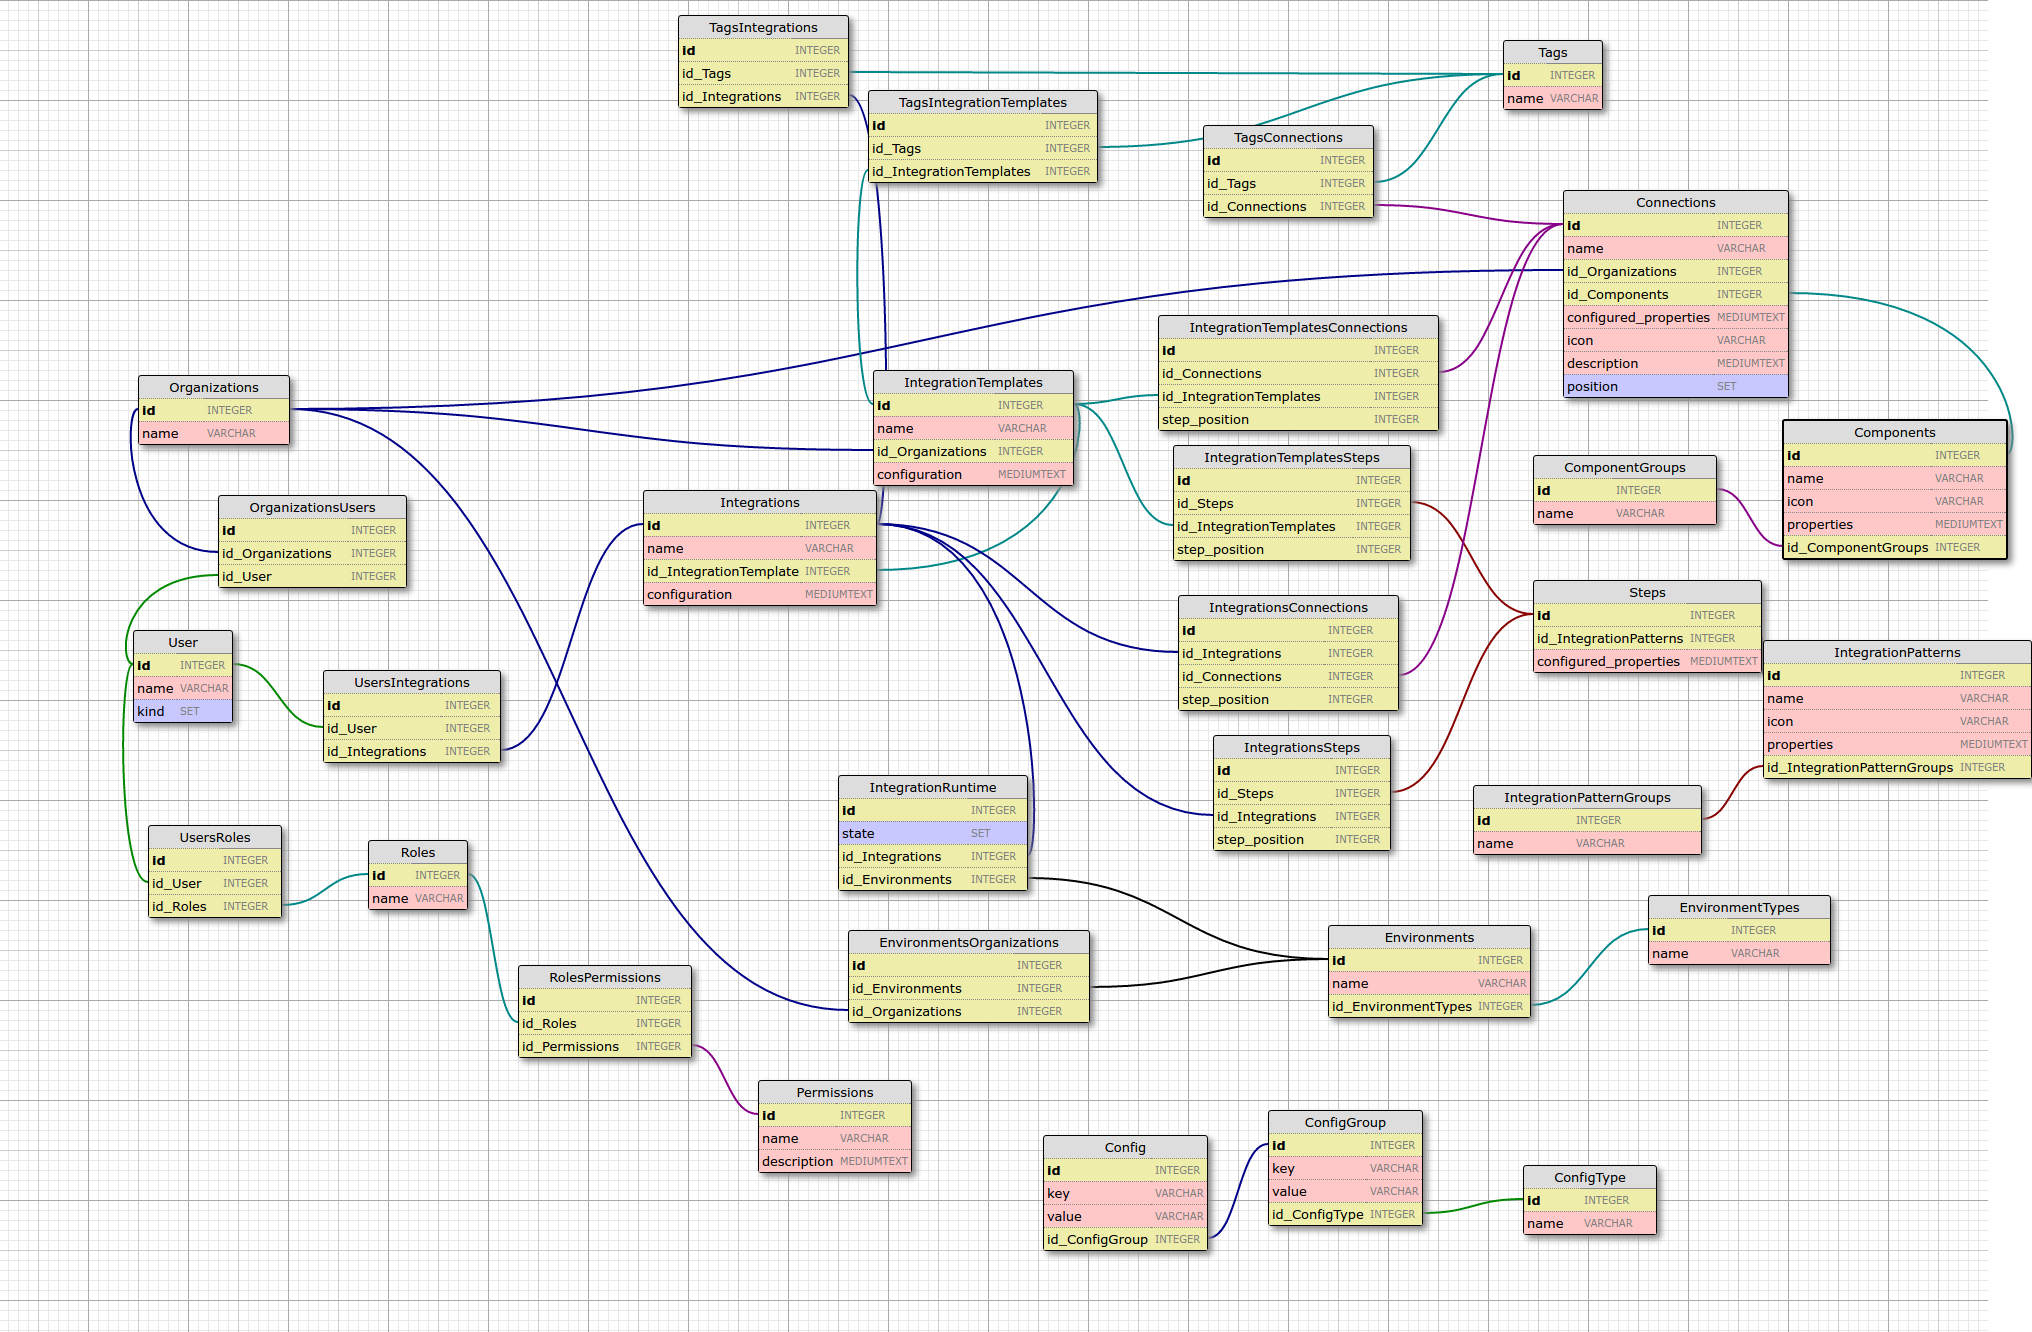
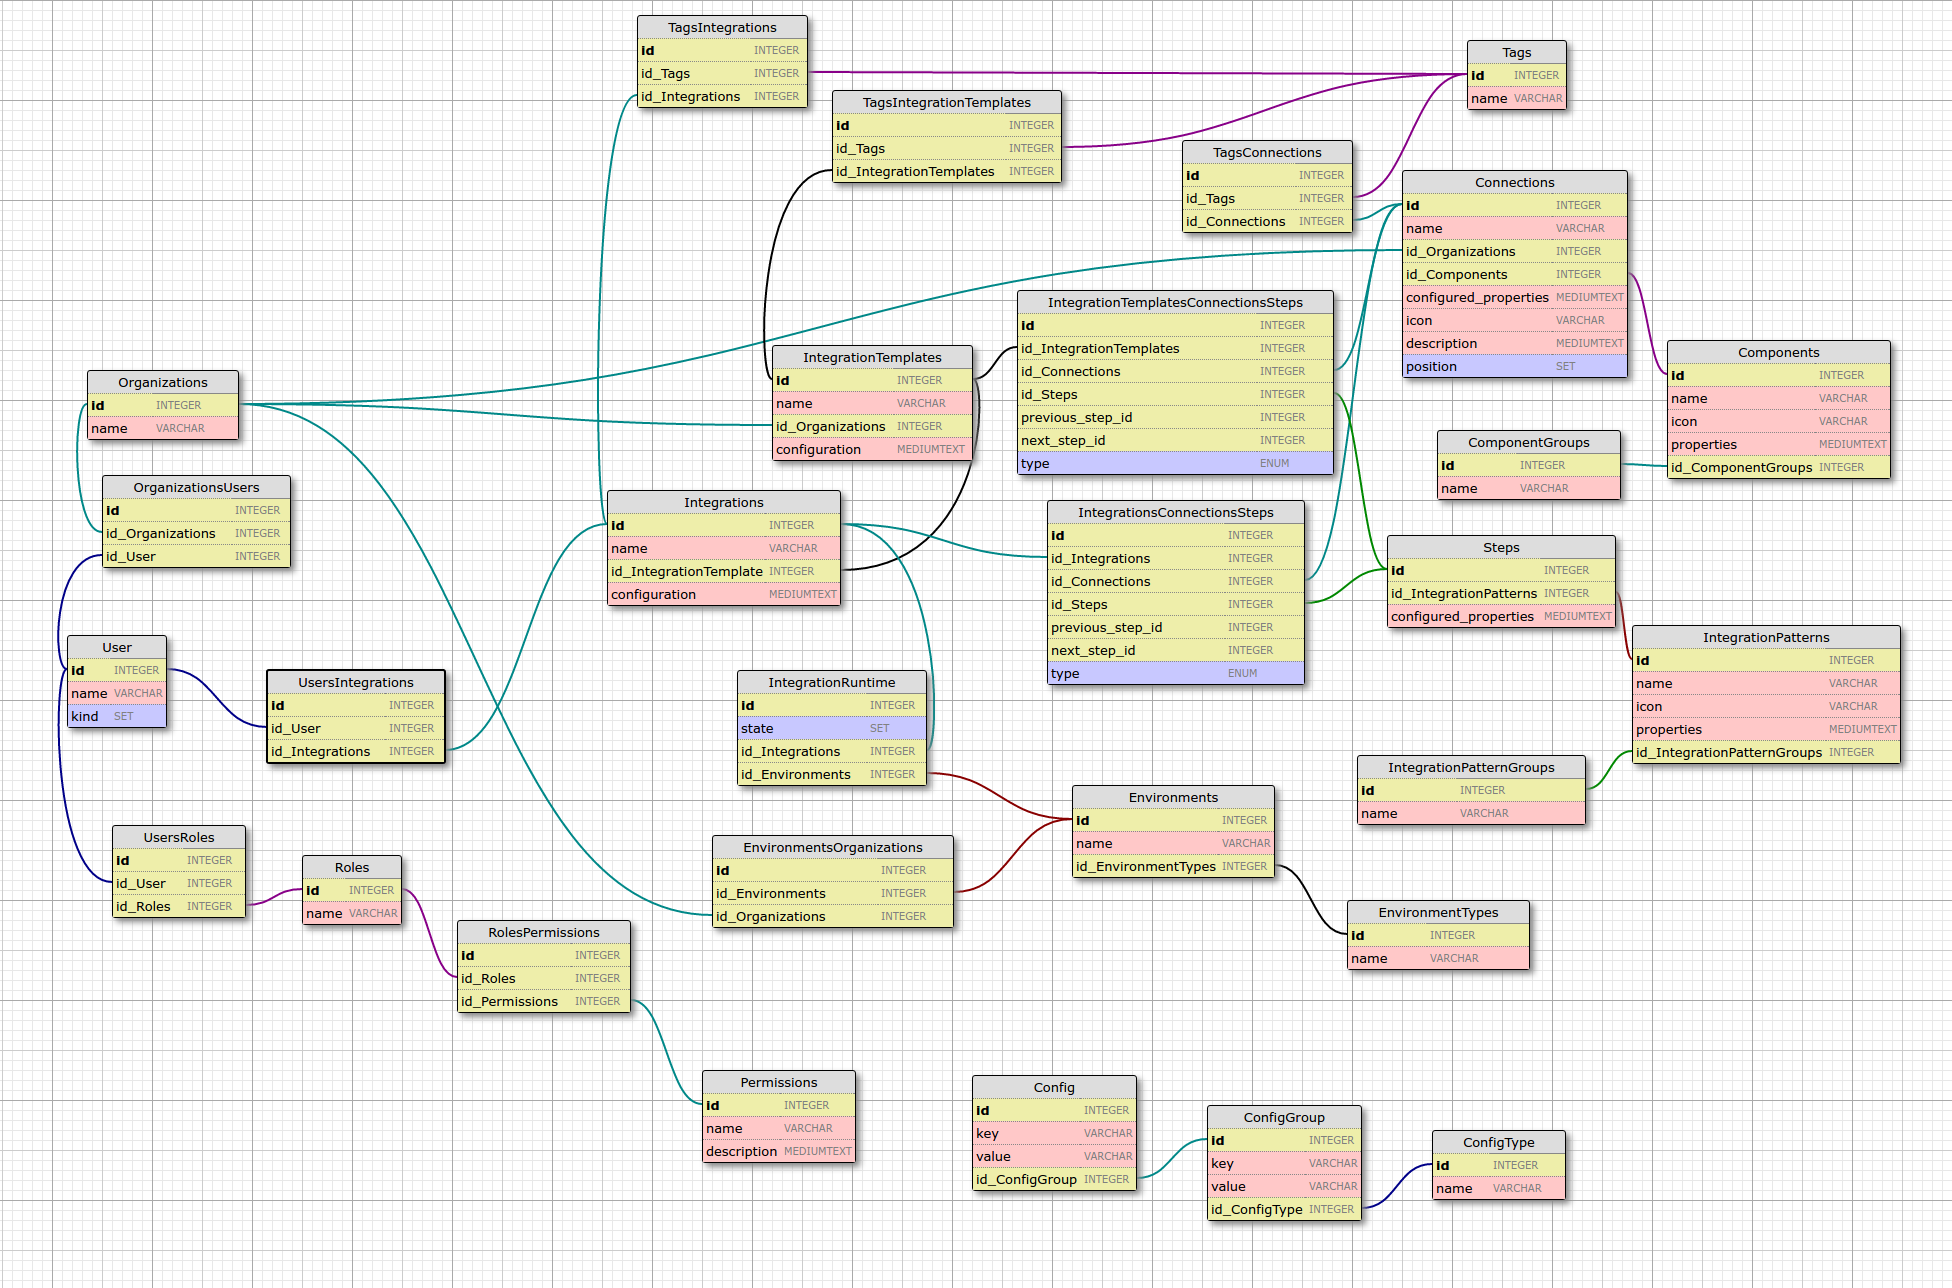
Trim down join tables for integrations/integrationtemplates to connections/steps, add next/previous ID columns and a type enum

diff --git a/docs/entities.md b/docs/entities.md
@@ -16,20 +16,28 @@ We are in the process of creating a diagram (see below) for the Entity Relations
 - EnvironmentType
     - has many Environments
 - Integration
-    - has one IntegrationTemplates (through JOIN IntegrationTemplatesIntegrations))
+    - has one IntegrationTemplates 
     - has many IntegrationRuntimes
     - has many Tags (many-to-many)
     - belongs to a User
-    - has many Connections
-    - has many Steps
+    - has many Connections through IntegrationConnectionStep
+    - has many Steps through IntegrationConnectionStep
 - IntegrationRuntime
     - belongs to an Integration
     - belongs to an Environment
 - IntegrationTemplate
-    - has many Connections
-    - has many Steps
+    - has many Connections through IntegrationTemplateConnectionStep
+    - has many Steps through IntegrationTemplateConnectionStep
     - has many Tags
     - belongs to an Organization
+- IntegrationTemplateConnectionStep
+  - has a previous step ID
+  - has a next step ID
+  - has a type enum (Connection or Step)
+- IntegrationConnectionStep
+  - has a previous step ID
+  - has a next step ID
+  - has a type enum (Connection or Step)
 - Organization
     - has many Connections
     - has many Environments
